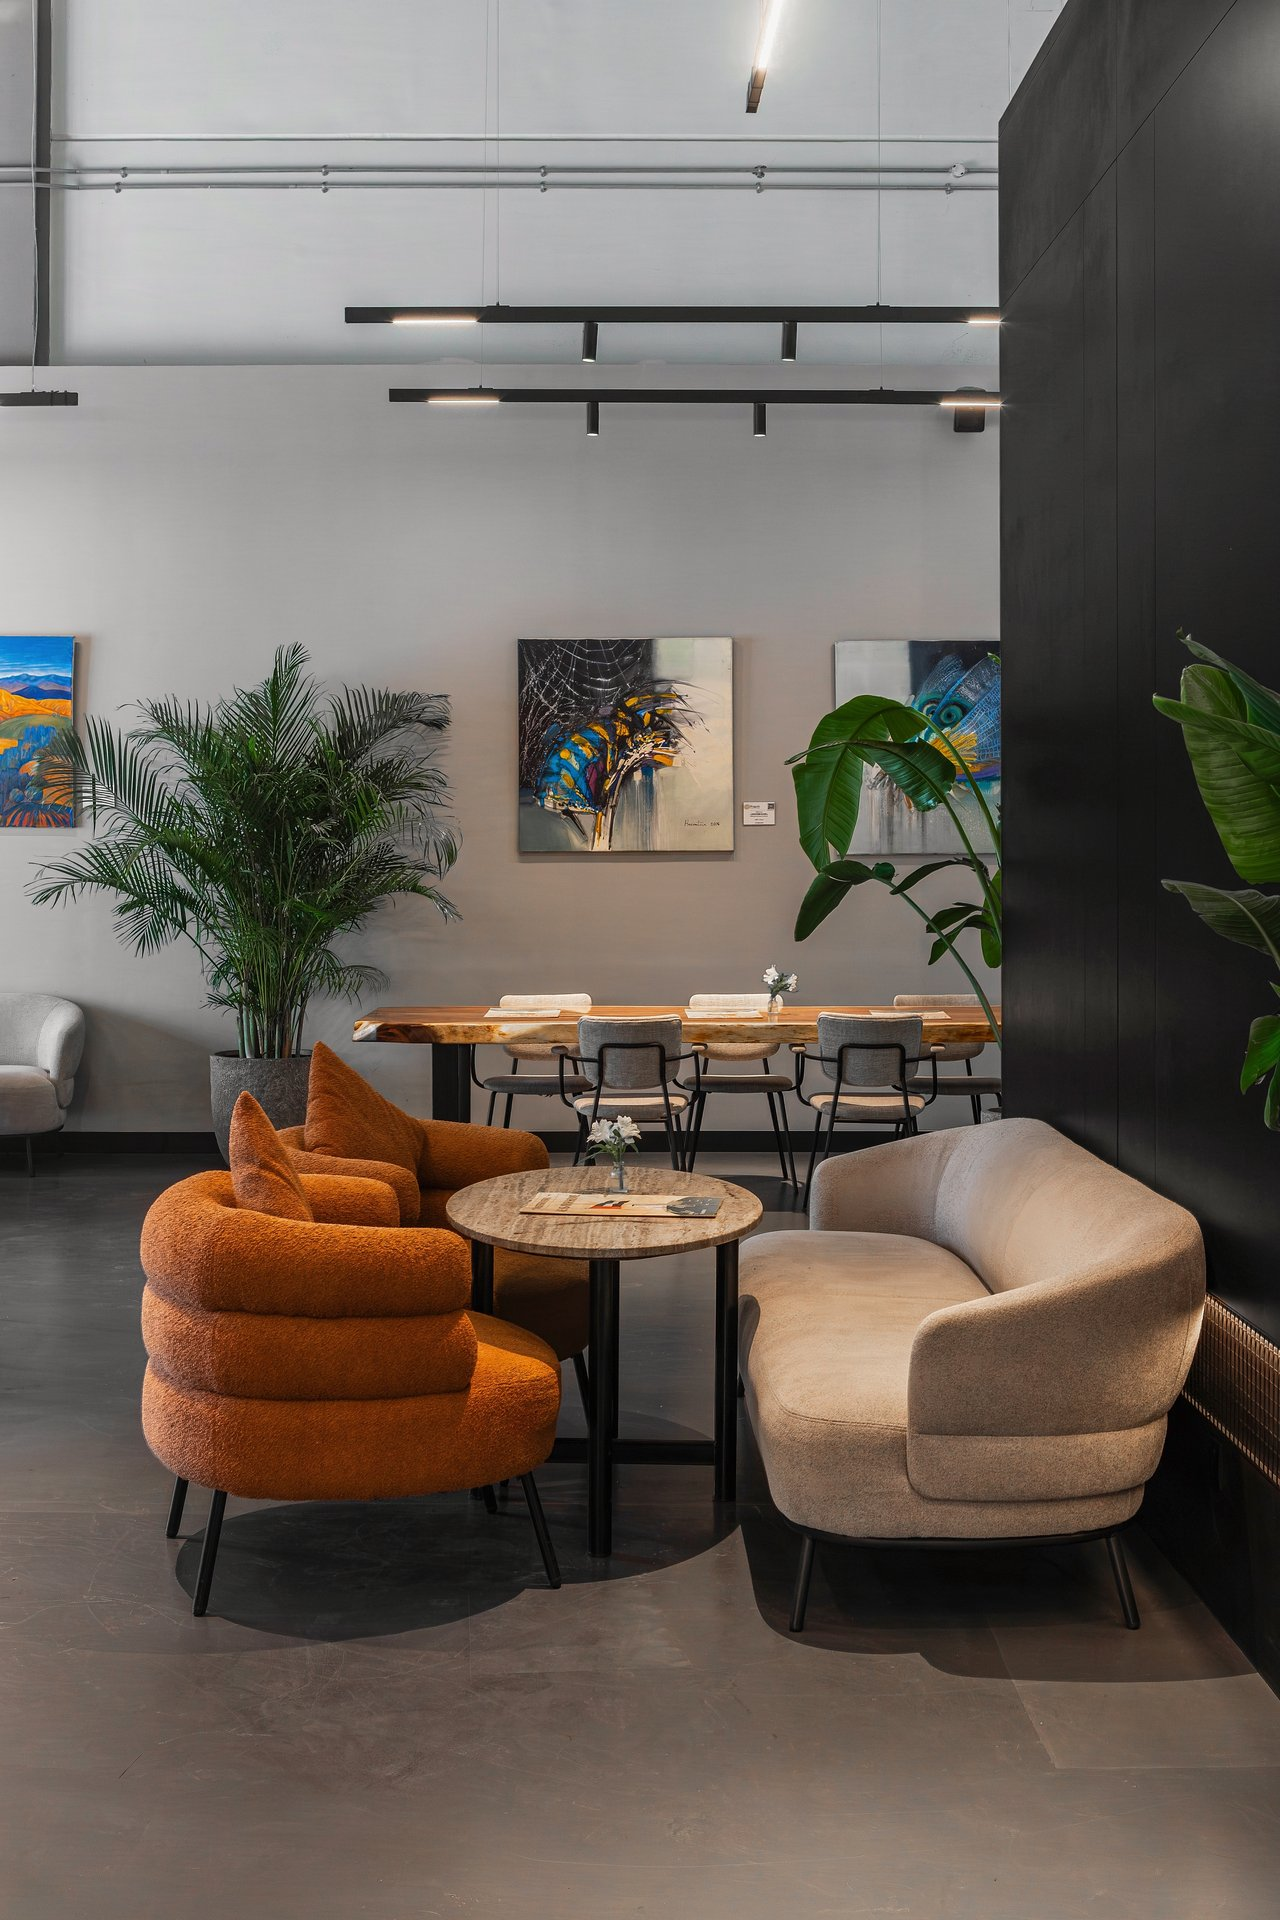
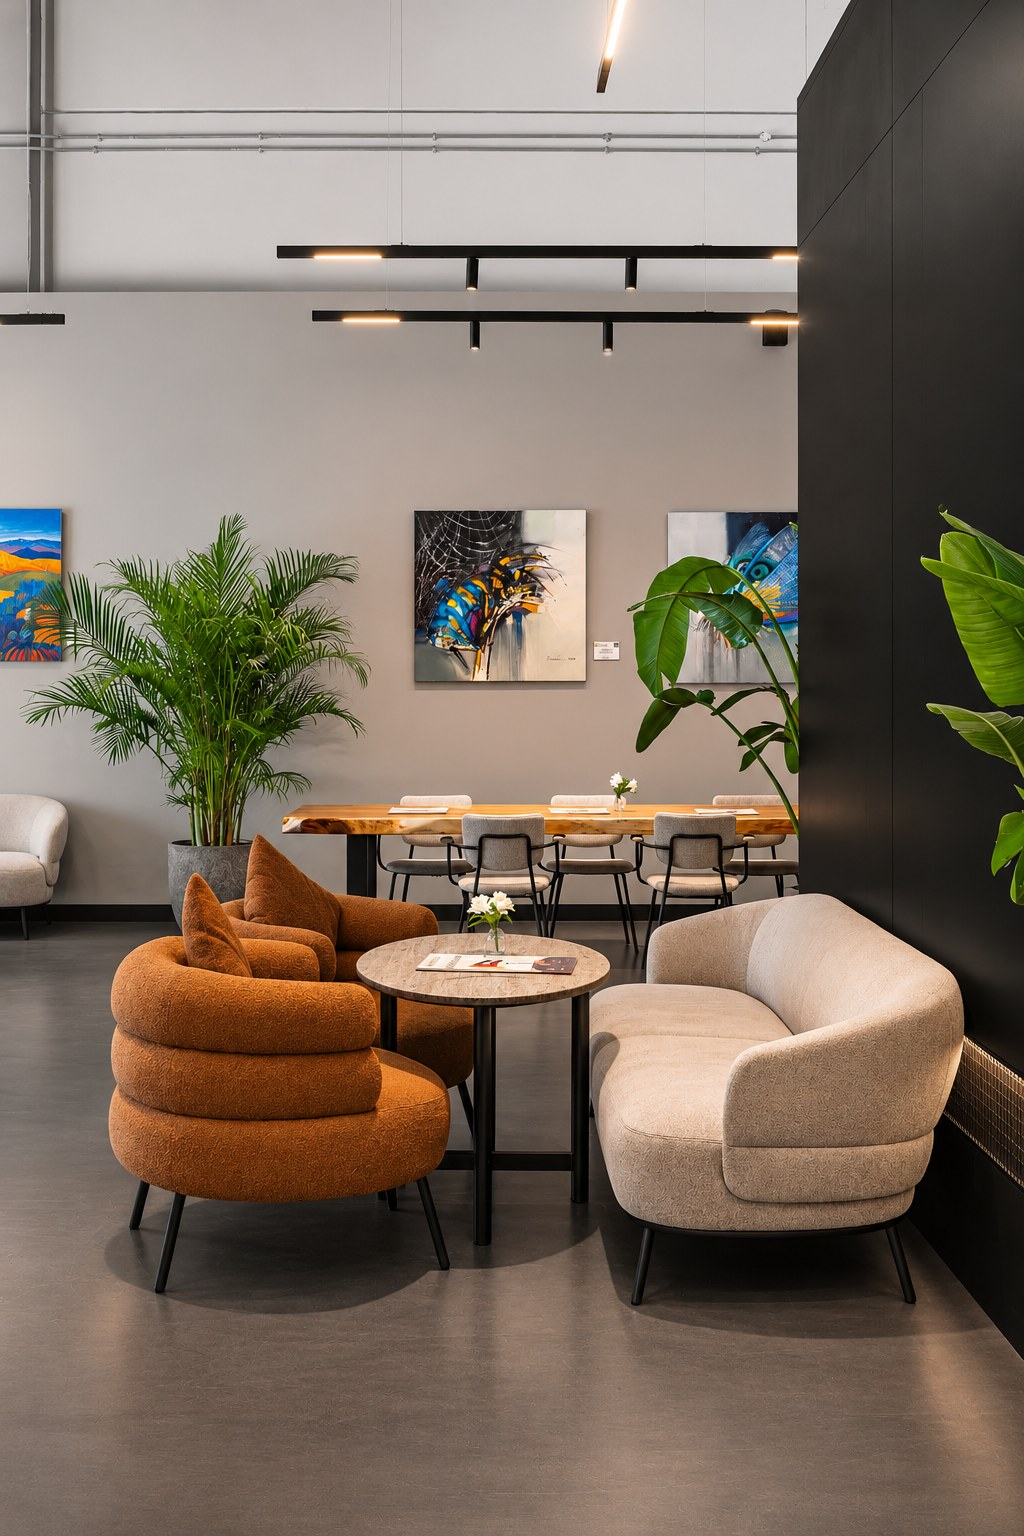
Roasters Science Park: new retouched gallery (18 photos, hero kept); add 'third' gallery tile size

diff --git a/src/content.config.ts b/src/content.config.ts
@@ -17,7 +17,7 @@ const projects = defineCollection({
       coverRatio: z.number().optional(),       // height/width of the tile (defaults to the photo's own ratio)
       hero: image().optional(),                // big photo next to description
       heroCol: z.number().optional(),
-      gallery: z.array(z.object({ image: image(), size: z.enum(['half', 'quarter', 'five12', 'full']).default('half'), ratio: z.number().optional(), title: z.string().optional() })).default([]),
+      gallery: z.array(z.object({ image: image(), size: z.enum(['half', 'quarter', 'third', 'five12', 'full']).default('half'), ratio: z.number().optional(), title: z.string().optional() })).default([]),
       gallerySpacer: z.boolean().default(false), // reproduces an empty first tile of the old site's gallery
       // unified project facts (shown on every project page in this order)
       location: z.string().optional(),         // "Area, City, Country"

diff --git a/src/content/projects/roasters-science-park-dubai/index.md b/src/content/projects/roasters-science-park-dubai/index.md
@@ -11,74 +11,77 @@ coverRatio: 1.500000
 hero: "./img/00-hero-roasters-signage.jpg"
 heroCol: 50
 gallery:
-  - image: "./img/01-bar-front-wide.jpg"
+  - image: "./img/01-bar-and-hall-wide.jpg"
     size: half
+    ratio: 0.738
     title: "Bar and hall"
-  - image: "./img/02-hall-lounge-wide.jpg"
+  - image: "./img/02-travertine-bar-signage.jpg"
     size: half
-    title: "Lounge"
-  - image: "./img/03-hall-to-bar.jpg"
-    size: half
-    title: "Hall"
-  - image: "./img/05-bar-linear-light-vertical.jpg"
-    size: quarter
-    title: "Bar lighting"
-  - image: "./img/07-bar-display-counter.jpg"
-    size: quarter
-    title: "Display counter"
-  - image: "./img/06-travertine-bar-counter.jpg"
-    size: half
+    ratio: 0.738
     title: "Travertine bar"
-  - image: "./img/09-signage-travertine-detail.jpg"
+  - image: "./img/03-display-counter-signage.jpg"
     size: quarter
-    title: "Signage detail"
+    ratio: 1.5
+    title: "Display counter"
+  - image: "./img/04-espresso-bar-signage.jpg"
+    size: quarter
+    ratio: 1.5
+    title: "Espresso bar"
+  - image: "./img/05-hall-to-bar.jpg"
+    size: quarter
+    ratio: 1.5
+    title: "Hall"
+  - image: "./img/06-view-from-mezzanine.jpg"
+    size: quarter
+    ratio: 1.5
+    title: "View from the mezzanine"
+  - image: "./img/07-double-height-hall.jpg"
+    size: half
+    ratio: 0.738
+    title: "Double-height hall"
+  - image: "./img/09-lounge-armchairs-art.jpg"
+    size: quarter
+    ratio: 1.5
+    title: "Lounge armchairs"
   - image: "./img/10-lounge-corner.jpg"
     size: quarter
+    ratio: 1.5
     title: "Lounge corner"
-  - image: "./img/04-double-height-hall.jpg"
-    size: half
-    title: "Double-height hall"
-  - image: "./img/08-espresso-station-detail.jpg"
-    size: half
-    title: "Espresso station"
-  - image: "./img/11-seating-zone-vertical.jpg"
+  - image: "./img/11-seating-zone-art.jpg"
     size: quarter
+    ratio: 1.5
     title: "Seating"
-  - image: "./img/12-lounge-art-wall.jpg"
+  - image: "./img/12-slab-table-gallery.jpg"
     size: quarter
-    title: "Art wall"
-  - image: "./img/13-slab-table-zone.jpg"
-    size: quarter
+    ratio: 1.5
     title: "Slab table"
-  - image: "./img/14-black-slatted-wall.jpg"
-    size: quarter
-    title: "Slatted wall"
-  - image: "./img/16-lounge-black-wall-wide.jpg"
+  - image: "./img/08-hall-lounge-wide.jpg"
     size: half
+    ratio: 0.738
     title: "Lounge"
-  - image: "./img/18-espresso-bar-signage-vertical.jpg"
-    size: quarter
-    title: "Espresso bar"
-  - image: "./img/20-lounge-armchairs-art.jpg"
-    size: quarter
-    title: "Lounge armchairs"
-  - image: "./img/17-espresso-bar-signage-wide.jpg"
+  - image: "./img/13-lounge-black-wall-wide.jpg"
     size: half
-    title: "Espresso bar and signage"
-  - image: "./img/19-art-wall-tables.jpg"
+    ratio: 0.738
+    title: "Lounge"
+  - image: "./img/14-art-wall-tables.jpg"
     size: quarter
+    ratio: 1.5
     title: "Art wall"
-  - image: "./img/21-guinness-certificate-bar.jpg"
+  - image: "./img/15-retail-shelf-signage.jpg"
     size: quarter
-    title: "Bar detail"
-  - image: "./img/22-view-from-mezzanine.jpg"
-    size: quarter
-    title: "View from the mezzanine"
-  - image: "./img/25-corridor-linear-light.jpg"
-    size: quarter
+    ratio: 1.5
+    title: "Retail shelf"
+  - image: "./img/16-entrance-black-wall.jpg"
+    size: third
+    ratio: 1.5
+    title: "Entrance"
+  - image: "./img/17-corridor-linear-light.jpg"
+    size: third
+    ratio: 1.5
     title: "Corridor"
-  - image: "./img/23-washroom-vanity.jpg"
-    size: quarter
+  - image: "./img/18-washroom-vanity.jpg"
+    size: third
+    ratio: 1.5
     title: "Washroom"
 otherCases: ["roasters-dubai-hills","roasters-downtown","roasters-sobha-hartland","wala-coffee-roastery","panmi-coffee-shop-dubai-hills","roasters-palm-jumeirah-mall","title-brew-specialty-coffee-bay-square","restaurant-contractor-dubai-yoy-neo-bistro","mercure-gold-hotel-interior-design"]
 location: "Dubai Science Park, Dubai, UAE"
